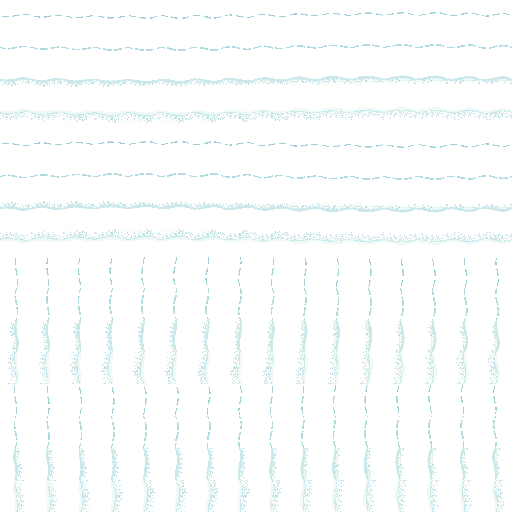
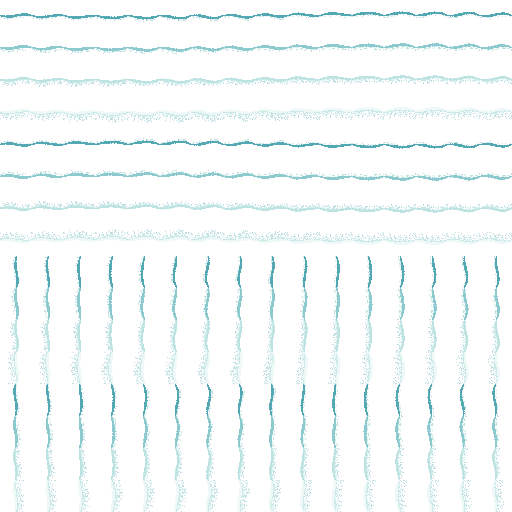
Flowing Waves art: old foam breaks into opaque strands, solid far-out crests; README

diff --git a/tools/fwsheets.py b/tools/fwsheets.py
@@ -45,13 +45,13 @@ def lace(variant, frame):
     return (np.hypot(dx, dy) / rad).min(axis=2)
 
 
-def breakup():
-    r = np.random.RandomState(3)
+def breakup(variant):
+    r = np.random.RandomState(3 + variant)
     f = np.zeros((T, T))
     for _ in range(6):
         kx, ky = r.randint(-2, 3, 2)
         f += np.cos(2 * np.pi * (kx * xx + ky * yy) / T + r.rand() * 6.3)
-    f += 1.5 * (np.random.RandomState(4).rand(T, T) - 0.5)
+    f += 1.5 * (np.random.RandomState(40 + variant).rand(T, T) - 0.5)
     return (f - f.min()) / (f.max() - f.min())
 
 
@@ -72,12 +72,18 @@ def outline(joined, variant):
     return R - np.sqrt(q)
 
 
-STAGE = [  # bubble size (share of full radius), share broken away
-    (1.42, 0.84), (1.34, 0.62), (1.26, 0.36), (1.16, 0.12), (1.06, 0.0), (0.96, 0.0), (0.86, 0.0), (0.74, 0.0)]
+# Only the freshest foam is bright white. The game leaves foam on the sand long after the water has pulled
+# back, so the older stages are a residue of thin strands that break up into crumbs.
+STAGE = [  # bubble size (share of full radius), share broken away, white core
+    (1.50, 0.86, False), (1.44, 0.74, False), (1.38, 0.60, False), (1.31, 0.46, False),
+    (1.23, 0.30, False), (1.13, 0.14, False), (0.92, 0.0, True), (0.74, 0.0, True)]
+# In game a see-through pixel comes out darker than the sand under it, whatever its colour (measured with
+# faint and with dithered foam), so the residue is fully opaque: thin strands, most of them broken away.
+RESIDUE = (226, 236, 232)
 
 
 def foam_tile(e, brk, m, stage, joined=0):
-    size, gone = STAGE[stage]
+    size, gone, core = STAGE[stage]
     size = size + 0.5 * (1 - np.clip(m / 6.0, 0, 1))   # bubbles open up toward the patch's rim
     # toward a joined side the foam opens into lace too: the neighbour may be foam (the lace carries on) or
     # a wave's water (a solid edge there would show the tile's square)
@@ -86,14 +92,24 @@ def foam_tile(e, brk, m, stage, joined=0):
             size = size + 0.22 * (1 - np.clip(d / 8.0, 0, 1))
     alive = (m > 0) & (brk >= gone)
     out = np.zeros((T, T, 4), np.uint8)
-    out[alive & (e > size)] = LIGHT
-    out[alive & (e > size + 0.16)] = WHITE
+    if core:
+        out[alive & (e > size)] = LIGHT
+        out[alive & (e > size + 0.16)] = WHITE
+    else:
+        out[alive & (e > size)] = RESIDUE + (255,)
     return out
+
+
+def bleed(sheet, rgb):
+    """The game scales tiles smoothly without weighting colour by opacity, so invisible black pixels would
+    bleed into their neighbours as a dark fringe. Give the invisible pixels the foam's colour."""
+    sheet[..., :3][sheet[..., 3] == 0] = rgb
+    return sheet
 
 
 def seafoam():
     sheet = np.zeros((8 * 16 * 4 * T, FR * T, 4), np.uint8)
-    brk = breakup()
+    brks = [breakup(v) for v in range(4)]
     laces = [[lace(v, f) for f in range(FR)] for v in range(4)]
     for stage in range(8):
         for joined in range(16):
@@ -101,13 +117,14 @@ def seafoam():
                 m = outline(joined, v)
                 row = (stage * 16 + joined) * 4 + v
                 for f in range(FR):
-                    sheet[row * T:(row + 1) * T, f * T:(f + 1) * T] = foam_tile(laces[v][f], brk, m, stage, joined)
-    return sheet
+                    sheet[row * T:(row + 1) * T, f * T:(f + 1) * T] = foam_tile(laces[v][f], brks[v], m, stage, joined)
+    return bleed(sheet, RESIDUE)
 
 
 CREST = [  # thickness px, colour of the line, trailing speckle depth px, share of the line drawn
-    (1.3, (96, 176, 186, 150), 0, 0.72), (1.9, (150, 208, 212, 190), 0, 0.88),
-    (2.7, LIGHT, 4, 1.0), (3.6, WHITE, 7, 1.0)]
+    (2.6, (84, 168, 180, 255), 2, 1.0), (3.0, (140, 202, 208, 255), 3, 1.0),
+    (3.0, LIGHT[:3] + (255,), 4, 1.0), (3.8, WHITE[:3] + (255,), 7, 1.0)]
+# (far-out crests thinner or see-through than this were invisible in game)
 
 
 def crest_tile(white, frame):
@@ -146,7 +163,7 @@ def swell():
             for h, t in enumerate((n, n[::-1], np.rot90(n, 3), np.rot90(n, 1))):   # north, south, east, west
                 row = h * 4 + white
                 sheet[row * T:(row + 1) * T, f * T:(f + 1) * T] = t
-    return sheet
+    return bleed(sheet, LIGHT[:3])
 
 
 def preview(foam, crest, path):

diff --git a/README.md b/README.md
@@ -13,6 +13,24 @@ removed after commit c8352cc; its data files and tools (`caustics_swell.bin`, `c
 `caustics_sea_*.bin`, `wavetiles.lua`, `tools/wavegif.py`, `swell.py`, `wavetile.py`, `seagif.py`) are still
 in the repo but no longer used by the script.
 
+`UNDER_LAYER` in the script: the caustics are written to the map viewport layer `screentexpos_signpost`,
+below the interface layer other overlays paint on, so the waves and foam of the Flowing Waves mod (Steam
+Workshop 3829998283) show over them. `false` paints on the interface layer as before.
+
+`game/flowing_waves_art/` holds replacement art for that mod, in the mod's own sheet layout: `seafoam.png`
+(foam on the beach and spray) and `swell.png` (crests out at sea). Built by `tools/fwsheets.py`:
+
+    python fwsheets.py ../game/flowing_waves_art preview.png
+
+To install, keep a copy of the mod's own `art/seafoam.png` and `art/swell.png`, copy ours over them and run
+`flowing_waves reload` in DFHack. To go back, restore the two files and reload again. A Workshop update of
+the mod overwrites them. Notes from testing in game:
+
+- Only the two freshest foam stages are bright solid foam. The game leaves foam on the sand long after the
+  water has pulled back, so older stages are thin strands that break into crumbs.
+- A see-through or dithered pale pixel came out darker than the sand under it in game, so the foam is fully
+  opaque. (Cause not established; giving invisible pixels the foam colour did not change it.)
+
 `tools/` rebuilds the still-water files (Python with numpy, scipy, Pillow).
 
 Current still water: taken from a 128-frame looping grayscale caustics animation (not in this repo; the
